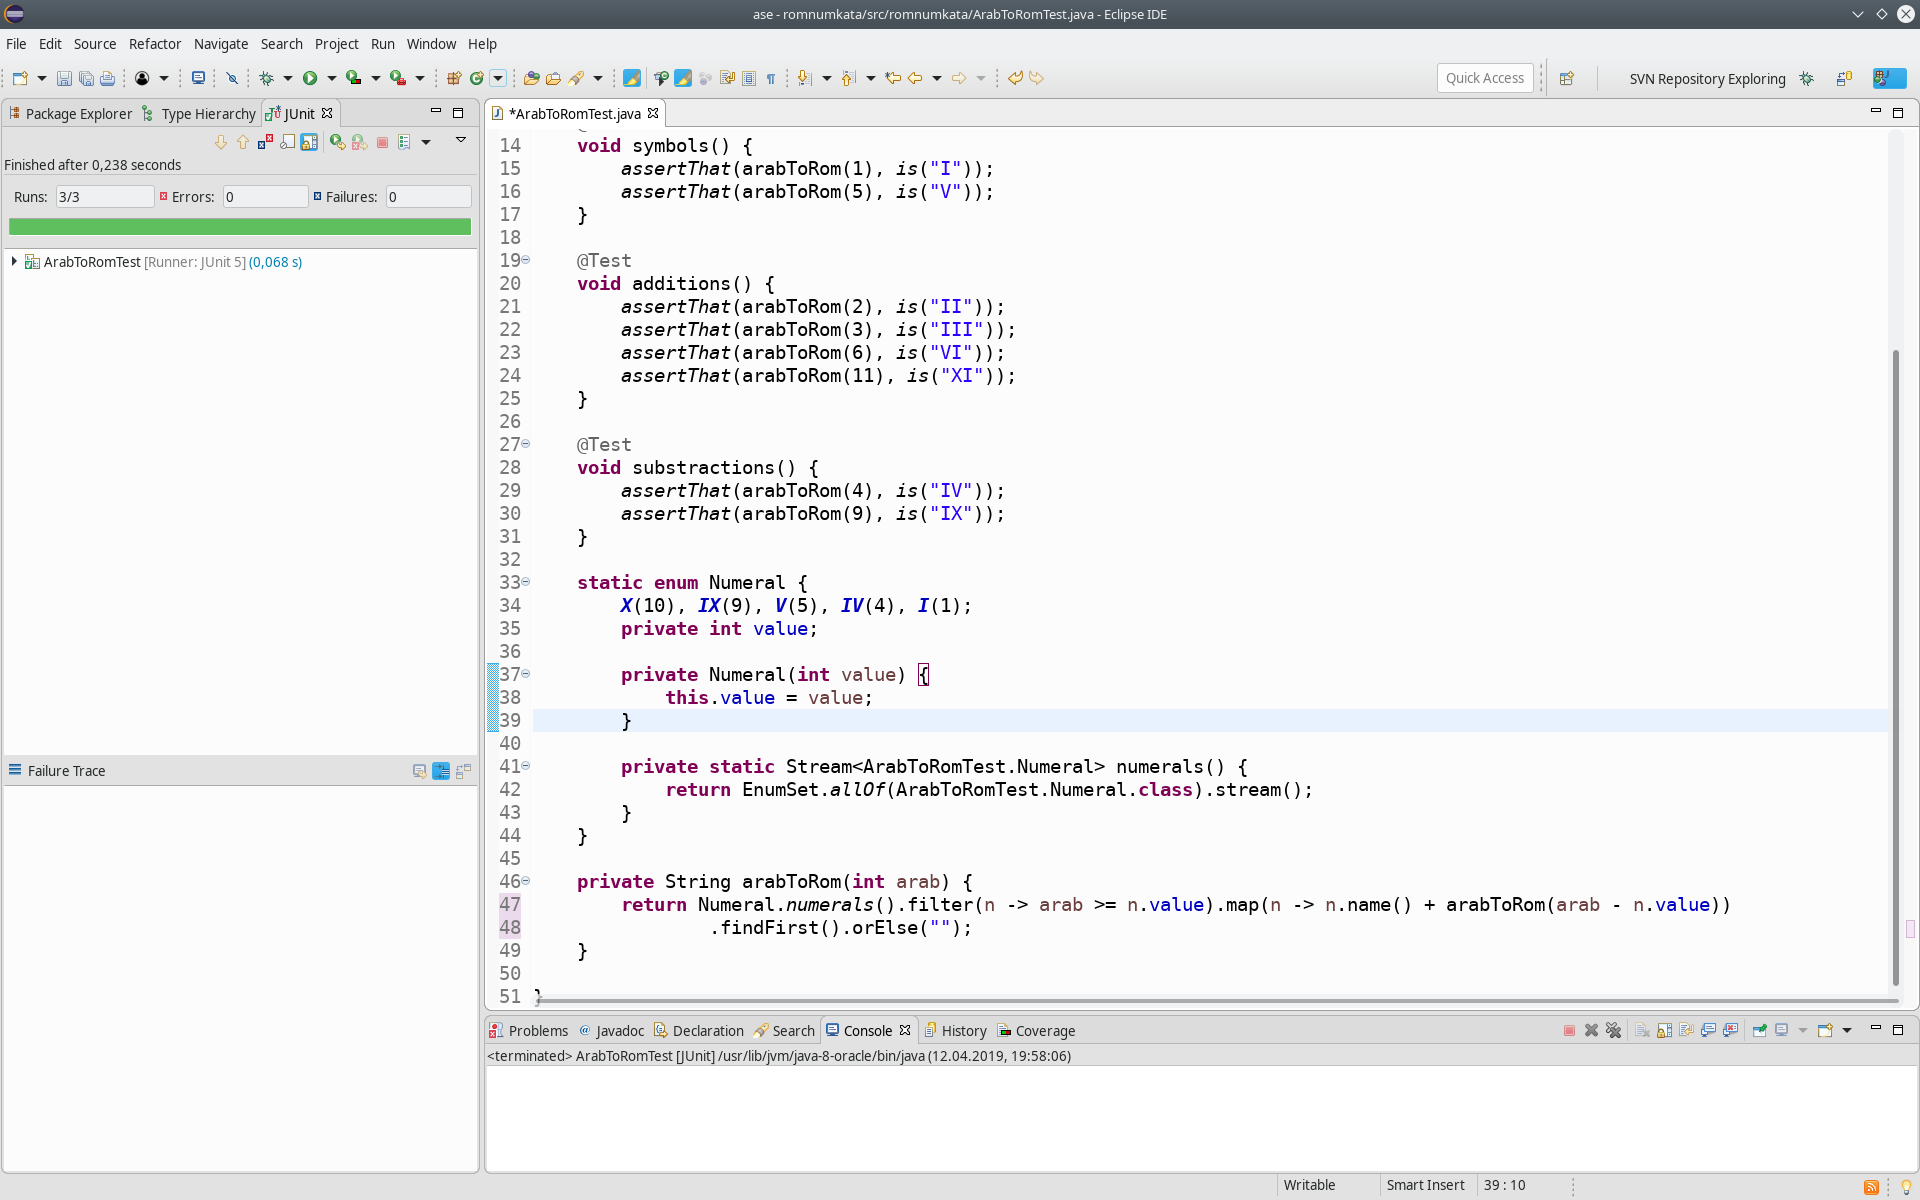
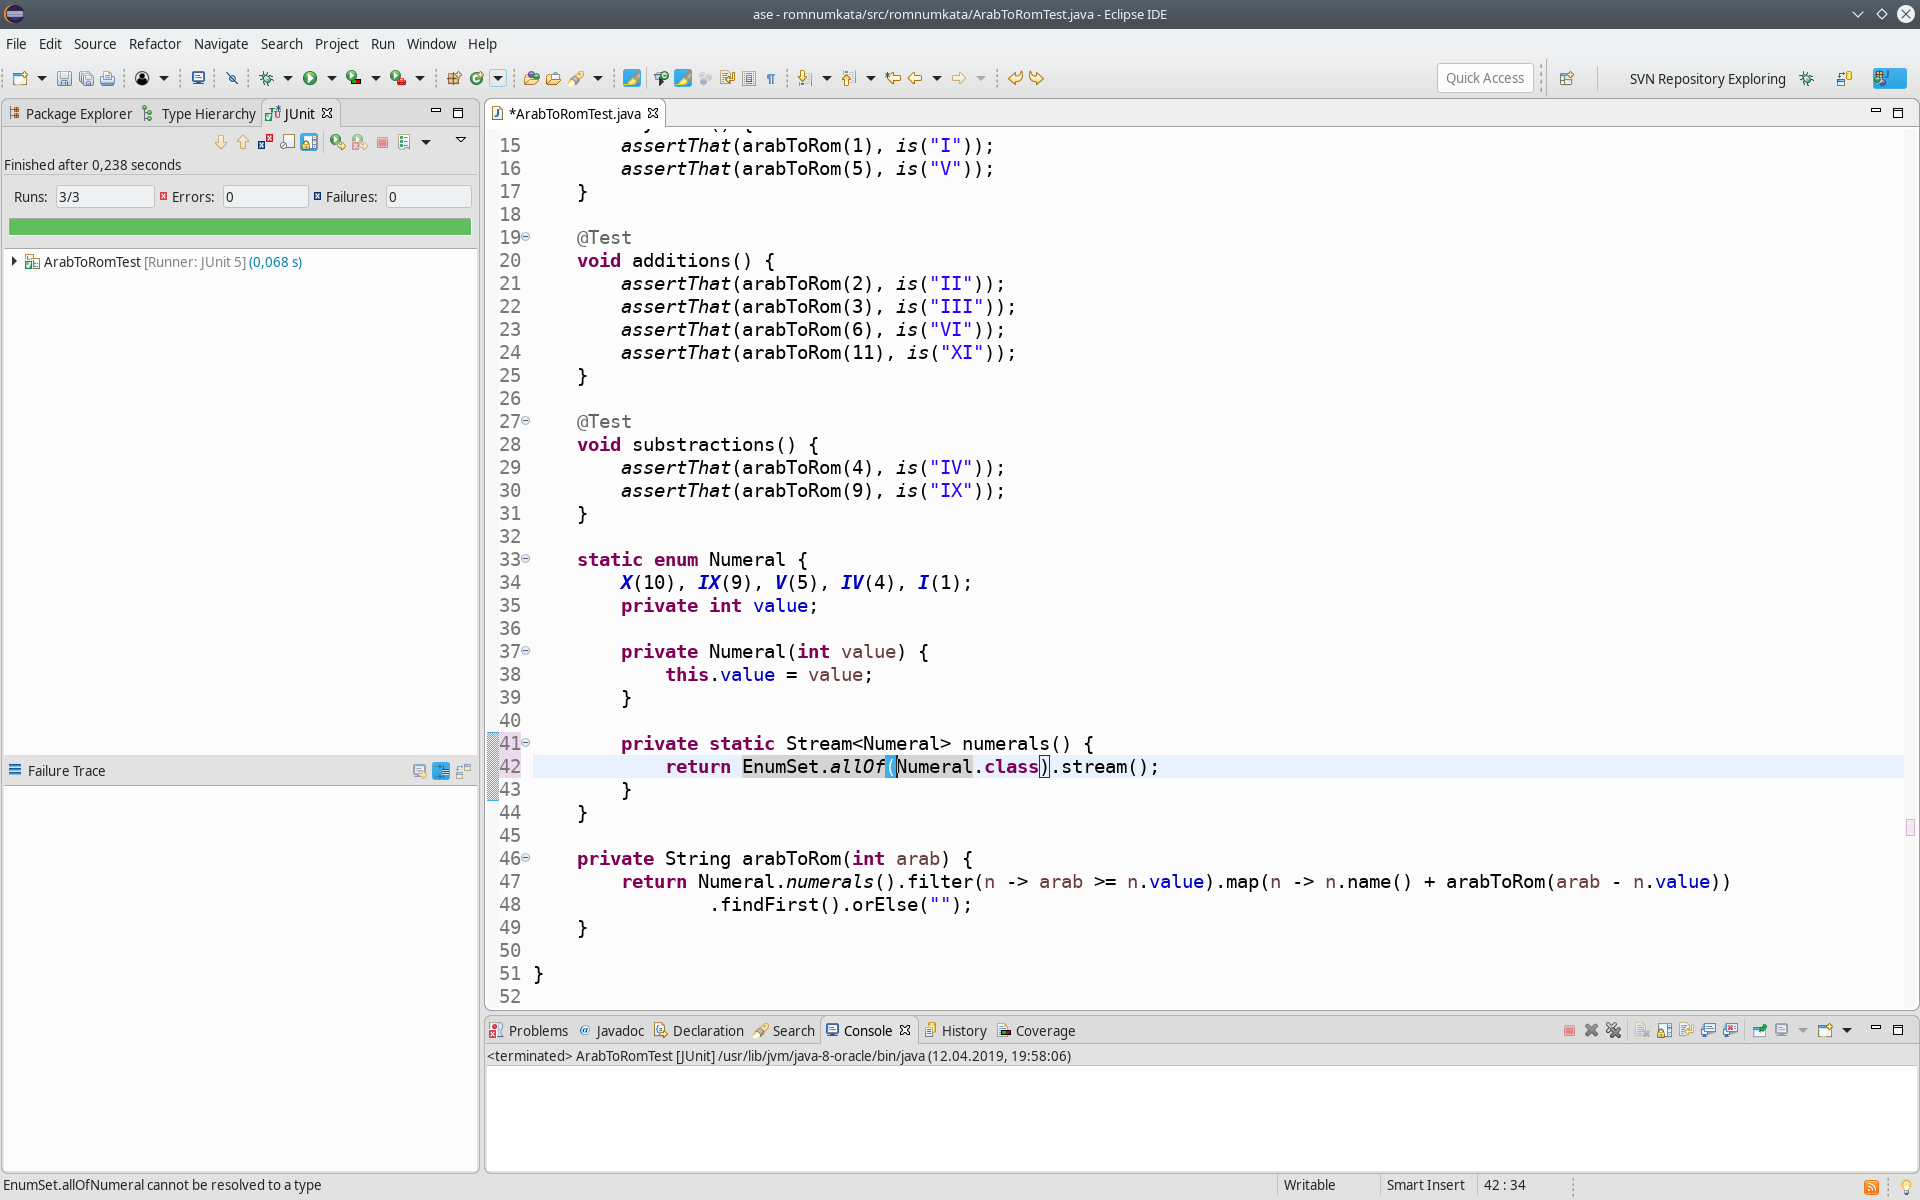
autocommit on change

diff --git a/src/romnumkata/ArabToRomTest.java b/src/romnumkata/ArabToRomTest.java
@@ -38,8 +38,8 @@ public class ArabToRomTest {
 			this.value = value;
 		}
 
-		private static Stream<ArabToRomTest.Numeral> numerals() {
-			return EnumSet.allOf(ArabToRomTest.Numeral.class).stream();
+		private static Stream<Numeral> numerals() {
+			return EnumSet.allOf(Numeral.class).stream();
 		}
 	}
 
